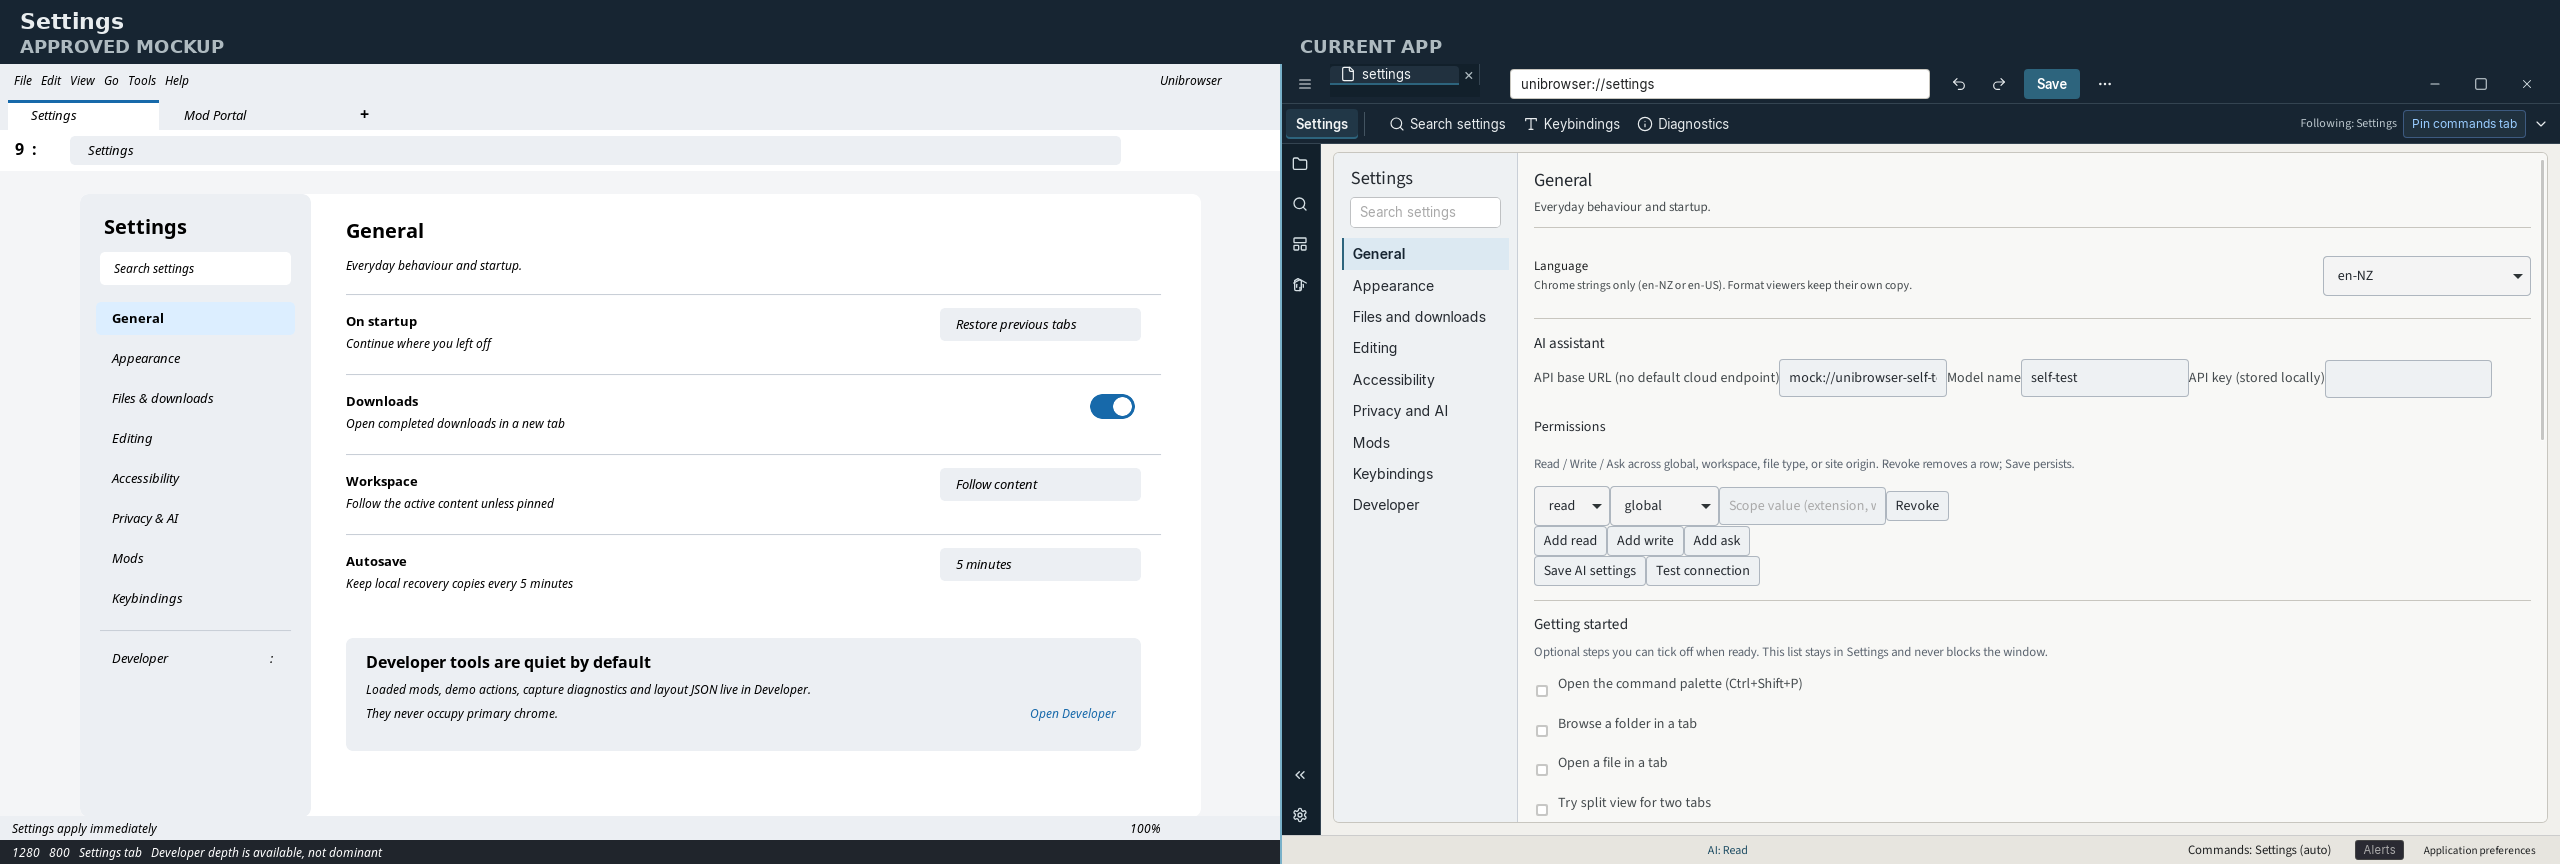
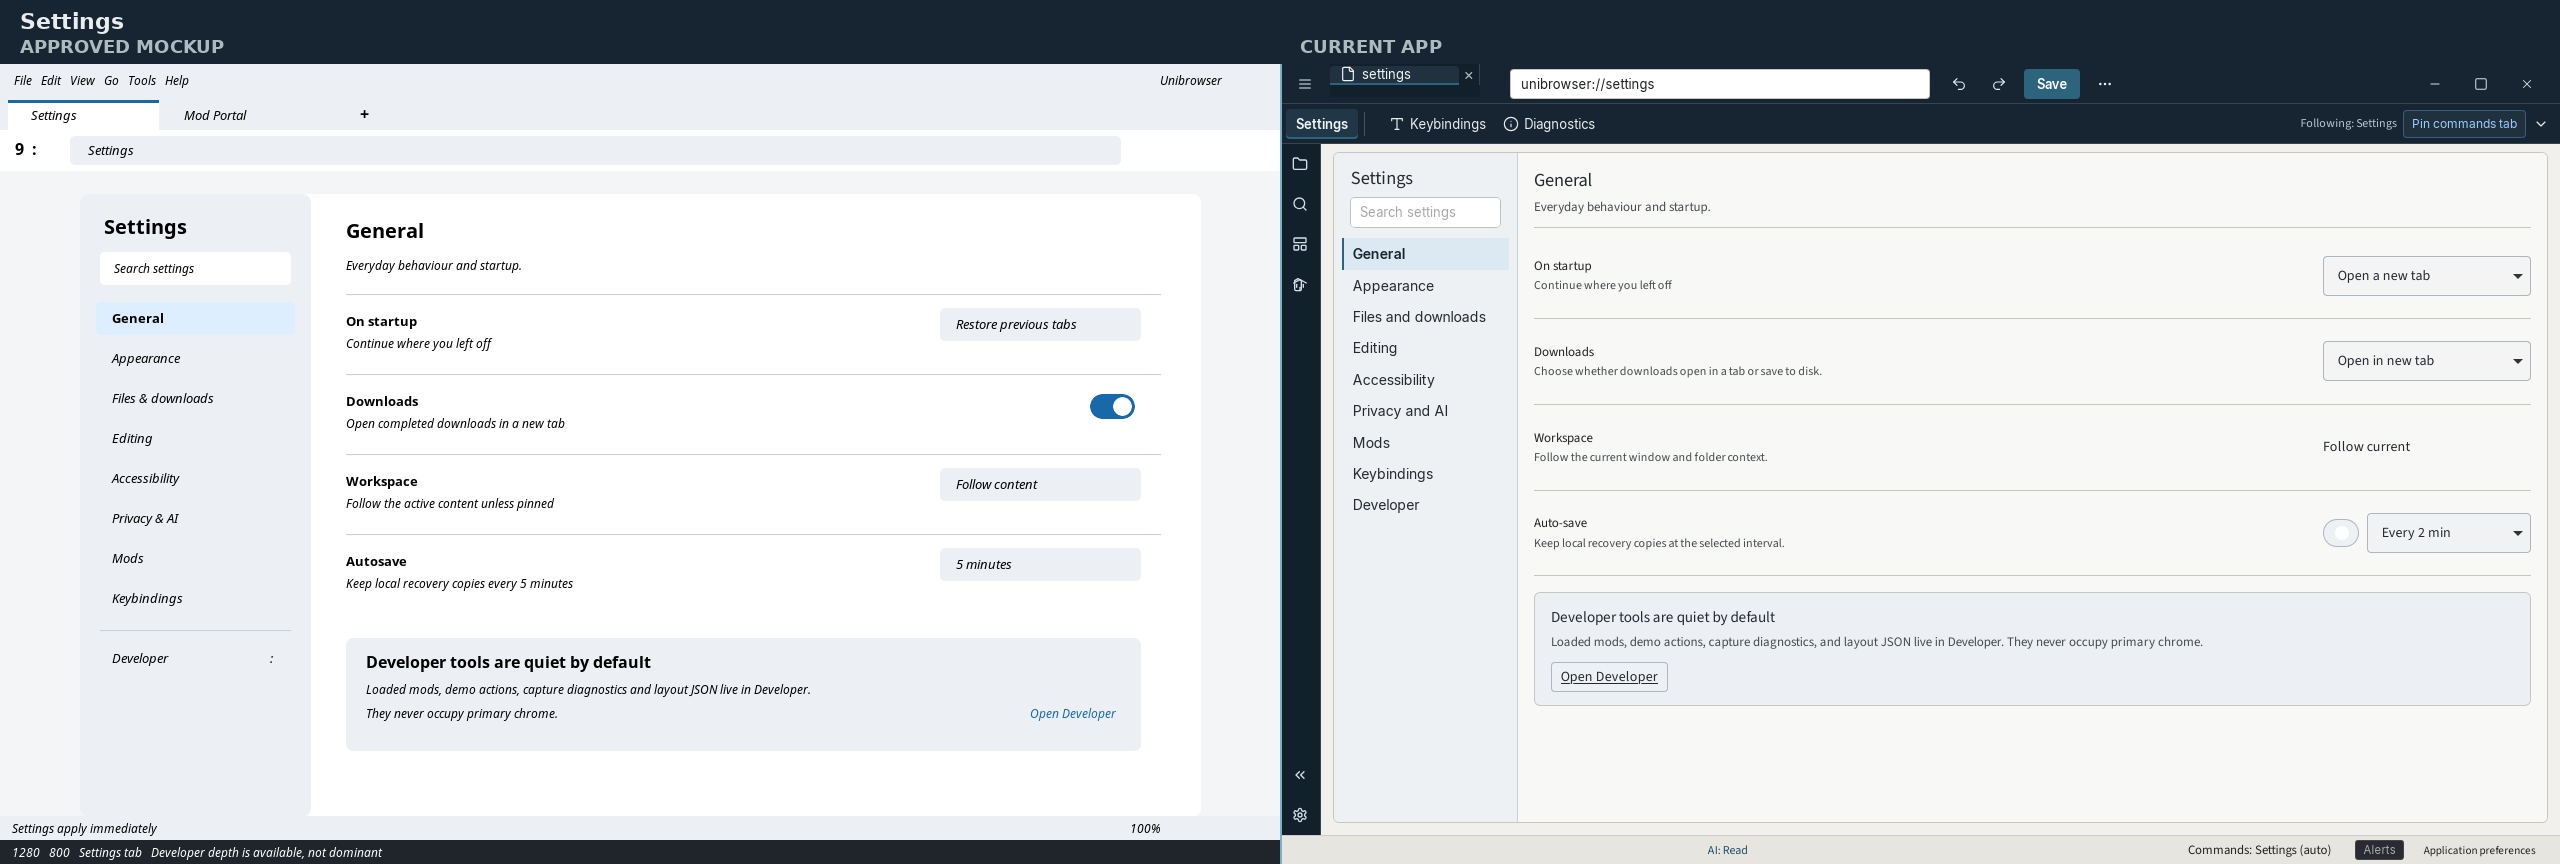
UI-21: Correct Settings category content

diff --git a/crates/unibrowser-desktop/src/settingsPage.ts b/crates/unibrowser-desktop/src/settingsPage.ts
@@ -21,7 +21,7 @@ import {
 import { applyThemeToDocument, loadThemePreference } from "./theme";
 import { listEditorThemeOptions } from "./monacoEditorTheme";
 import { setEditorThemePreference } from "./textEditor";
-import { appendOnboardingChecklistSection, markChecklistStep } from "./onboardingChecklist";
+import { markChecklistStep } from "./onboardingChecklist";
 import { configureAutoSave } from "./autoSave";
 import { configureProjectAutoSave } from "./projectAutoSave";
 import { appendCrashRecoveryPanel } from "./crashRecoveryPanel";
@@ -478,7 +478,7 @@ export async function renderSettings(root: HTMLElement) {
   root.appendChild(networkSection);
 
   const { renderAiAssistantSettings } = await import("./settingsAiAssistant");
-  renderAiAssistantSettings(root);
+  const aiSection = renderAiAssistantSettings(root);
 
   const cmSection = document.createElement("section");
   cmSection.className = "settings-section";
@@ -507,16 +507,10 @@ export async function renderSettings(root: HTMLElement) {
   cmSection.appendChild(cmTip);
   root.appendChild(cmSection);
 
-  appendOnboardingChecklistSection(root, {
-    onboarding_checklist_skip_forever: prefs.onboarding_checklist_skip_forever,
-    onboarding_checklist_completed: prefs.onboarding_checklist_completed,
-  });
   void markChecklistStep("settings_tour");
 
   const dlSection = document.createElement("section");
   dlSection.className = "settings-section";
-  const dlHeading = document.createElement("h3");
-  dlHeading.textContent = t("download.preferenceLabel");
   const dlSelect = document.createElement("select");
   const openOpt = document.createElement("option");
   openOpt.value = "open_in_new_tab";
@@ -530,23 +524,23 @@ export async function renderSettings(root: HTMLElement) {
   dlSelect.onchange = async () => {
     await invoke("set_download_preference", { preference: dlSelect.value });
   };
-  dlSection.appendChild(dlHeading);
-  dlSection.appendChild(dlSelect);
+  dlSection.classList.add("settings-section--fields");
+  dlSection.appendChild(
+    createSettingsFieldRow(
+      t("settings.downloadsRow"),
+      t("settings.downloadsRowLead"),
+      dlSelect,
+    ),
+  );
   root.appendChild(dlSection);
 
   const autoSection = document.createElement("section");
   autoSection.className = "settings-section";
-  const autoHeading = document.createElement("h3");
-  autoHeading.textContent = t("settings.autosave");
-  const autoRow = document.createElement("div");
-  autoRow.className = "settings-row";
   const autoCb = document.createElement("input");
   autoCb.type = "checkbox";
   autoCb.id = "settings-autosave";
+  autoCb.className = "settings-toggle-input";
   autoCb.checked = prefs.auto_save_enabled;
-  const autoLabel = document.createElement("label");
-  autoLabel.htmlFor = autoCb.id;
-  autoLabel.textContent = t("autosave.label");
   const intervalSelect = document.createElement("select");
   [60, 120, 300, 600, 900, 1800].forEach((secs) => {
     const opt = document.createElement("option");
@@ -576,45 +570,36 @@ export async function renderSettings(root: HTMLElement) {
   };
   autoCb.onchange = () => void persistAuto();
   intervalSelect.onchange = () => void persistAuto();
-  autoRow.appendChild(autoCb);
-  autoRow.appendChild(autoLabel);
-  autoRow.appendChild(intervalSelect);
-  const slotLabel = document.createElement("label");
-  slotLabel.textContent = t("autosave.keepSlots");
-  autoRow.appendChild(slotLabel);
-  autoRow.appendChild(slotInput);
   slotInput.onchange = () => void persistAuto();
-  const autoNote = document.createElement("p");
-  autoNote.className = "viewer-note";
-  autoNote.textContent = t("autosave.powerHint");
-  const restoreAutosaveBtn = document.createElement("button");
-  restoreAutosaveBtn.type = "button";
-  restoreAutosaveBtn.textContent = t("autosave.restoreLatest");
-  restoreAutosaveBtn.onclick = async () => {
-    try {
-      await invoke("restore_latest_autosave_for_active_tab");
-      showToast(t("autosave.restoreDone"), "info");
-    } catch (e) {
-      showErrorToast(e);
-    }
-  };
-  autoSection.appendChild(autoHeading);
-  autoSection.appendChild(autoRow);
-  autoSection.appendChild(autoNote);
-  autoSection.appendChild(restoreAutosaveBtn);
+  autoSection.classList.add("settings-section--fields");
+  const autoControls = document.createElement("div");
+  autoControls.className = "settings-inline-controls";
+  autoControls.append(autoCb, intervalSelect);
+  autoSection.appendChild(
+    createSettingsFieldRow(t("settings.autosave"), t("settings.autosaveRowLead"), autoControls),
+  );
   root.appendChild(autoSection);
 
   const sessionSection = document.createElement("section");
   sessionSection.className = "settings-section settings-section--fields";
-  const sessionCb = createSettingsToggle(
-    "settings-restore-session",
-    prefs.restore_session_on_launch,
-    async () => {
-      await invoke("set_restore_session_on_launch", { enabled: sessionCb.checked });
-    },
-  );
+  const sessionSelect = document.createElement("select");
+  [
+    ["restore", t("settings.restorePreviousTabs")],
+    ["new", t("settings.openNewTab")],
+  ].forEach(([value, label]) => {
+    const option = document.createElement("option");
+    option.value = value;
+    option.textContent = label;
+    sessionSelect.appendChild(option);
+  });
+  sessionSelect.value = prefs.restore_session_on_launch ? "restore" : "new";
+  sessionSelect.onchange = async () => {
+    await invoke("set_restore_session_on_launch", {
+      enabled: sessionSelect.value === "restore",
+    });
+  };
   sessionSection.appendChild(
-    createSettingsFieldRow(t("settings.onStartup"), t("settings.onStartupLead"), sessionCb),
+    createSettingsFieldRow(t("settings.onStartup"), t("settings.onStartupLead"), sessionSelect),
   );
   root.appendChild(sessionSection);
 
@@ -757,6 +742,20 @@ export async function renderSettings(root: HTMLElement) {
   workspaceSection.appendChild(workspaceBody);
   void appendWorkspaceLayoutPanel(workspaceBody);
   root.appendChild(workspaceSection);
+
+  const workspaceSummarySection = document.createElement("section");
+  workspaceSummarySection.className = "settings-section settings-section--fields";
+  const workspaceMode = document.createElement("output");
+  workspaceMode.className = "settings-readonly-value";
+  workspaceMode.textContent = t("settings.workspaceFollowCurrent");
+  workspaceSummarySection.appendChild(
+    createSettingsFieldRow(
+      t("settings.workspaceRow"),
+      t("settings.workspaceRowLead"),
+      workspaceMode,
+    ),
+  );
+  root.appendChild(workspaceSummarySection);
 
   const backupSection = document.createElement("section");
   backupSection.className = "settings-section";
@@ -1338,7 +1337,7 @@ export async function renderSettings(root: HTMLElement) {
     {
       id: "general",
       label: "General",
-      sections: [langSection, sessionSection, ntpSection, windowSection, updatesSection],
+      sections: [sessionSection, dlSection, workspaceSummarySection, autoSection],
     },
     {
       id: "appearance",
@@ -1348,17 +1347,17 @@ export async function renderSettings(root: HTMLElement) {
     {
       id: "files",
       label: "Files and downloads",
-      sections: [dlSection, autoSection, recoverySection, workspaceSection, backupSection],
+      sections: [langSection, recoverySection, backupSection, ntpSection, windowSection, updatesSection],
     },
     { id: "editing", label: "Editing", sections: [boardSection, mediaSection] },
     { id: "accessibility", label: "Accessibility", sections: [a11ySection] },
-    { id: "privacy", label: "Privacy and AI", sections: [networkSection] },
+    { id: "privacy", label: "Privacy and AI", sections: [networkSection, aiSection] },
     { id: "mods", label: "Mods", sections: [developerSection] },
     { id: "keybindings", label: "Keybindings", sections: [keysLink] },
     {
       id: "developer",
       label: "Developer",
-      sections: [bookmarkSection, developerSection, resetSection, advancedSection],
+      sections: [bookmarkSection, workspaceSection, developerSection, resetSection, advancedSection],
     },
   ] as const;
 
@@ -1367,8 +1366,11 @@ export async function renderSettings(root: HTMLElement) {
       section.dataset.settingsCategory = id;
     });
   });
+  [sessionSection, dlSection, workspaceSummarySection, autoSection].forEach((section) => {
+    root.appendChild(section);
+  });
   keysLink.dataset.settingsCategory = "keybindings";
-  aboutLink.dataset.settingsCategory = "general";
+  aboutLink.dataset.settingsCategory = "developer";
   diagLink.dataset.settingsCategory = "developer";
 
   [...root.children].forEach((child) => {

diff --git a/crates/unibrowser-desktop/src/settingsAiAssistant.ts b/crates/unibrowser-desktop/src/settingsAiAssistant.ts
@@ -1,6 +1,7 @@
 import { invoke } from "@tauri-apps/api/core";
 import { showErrorToast } from "./toast";
 import { t } from "./i18n";
+import { createSettingsFieldRow } from "./settingsLayout";
 
 interface AiPrefs {
   base_url?: string | null;
@@ -18,52 +19,50 @@ type GrantRow = AiPrefs["grants"][number];
 const PERMISSIONS = ["read", "write", "ask"] as const;
 const SCOPES = ["global", "workspace", "file_type", "site"] as const;
 
-export function renderAiAssistantSettings(root: HTMLElement) {
+export function renderAiAssistantSettings(root: HTMLElement): HTMLElement {
   const section = document.createElement("section");
-  section.className = "settings-section";
+  section.className = "settings-section settings-section--fields";
   section.dataset.settingsSection = "ai-assistant";
   const heading = document.createElement("h3");
   heading.textContent = t("settings.aiAssistantHeading");
   section.appendChild(heading);
 
   void invoke<AiPrefs>("get_ai_assistant_prefs").then((prefs) => {
-    const urlRow = document.createElement("label");
-    urlRow.textContent = t("settings.aiBaseUrl");
     const urlInput = document.createElement("input");
     urlInput.type = "url";
     urlInput.placeholder = "http://127.0.0.1:11434/v1";
     urlInput.value = prefs.base_url ?? "";
-    section.appendChild(urlRow);
-    section.appendChild(urlInput);
+    section.appendChild(
+      createSettingsFieldRow(
+        t("settings.aiBaseUrl"),
+        t("settings.aiBaseUrlLead"),
+        urlInput,
+      ),
+    );
 
-    const modelRow = document.createElement("label");
-    modelRow.textContent = t("settings.aiModel");
     const modelInput = document.createElement("input");
     modelInput.type = "text";
     modelInput.value = prefs.model ?? "";
-    section.appendChild(modelRow);
-    section.appendChild(modelInput);
+    section.appendChild(
+      createSettingsFieldRow(t("settings.aiModel"), t("settings.aiModelLead"), modelInput),
+    );
 
-    const keyRow = document.createElement("label");
-    keyRow.textContent = t("settings.aiApiKey");
     const keyInput = document.createElement("input");
     keyInput.type = "password";
     keyInput.autocomplete = "off";
     keyInput.value = prefs.api_key ?? "";
-    section.appendChild(keyRow);
-    section.appendChild(keyInput);
+    section.appendChild(
+      createSettingsFieldRow(t("settings.aiApiKey"), t("settings.aiApiKeyLead"), keyInput),
+    );
 
-    const grantsHead = document.createElement("h4");
-    grantsHead.textContent = t("settings.aiGrants");
-    section.appendChild(grantsHead);
     const grantsNote = document.createElement("p");
     grantsNote.className = "viewer-note";
     grantsNote.textContent = t("settings.aiGrantsNote");
-    section.appendChild(grantsNote);
-
     const grantsTable = document.createElement("div");
     grantsTable.className = "ai-grants-table";
-    section.appendChild(grantsTable);
+    const grantsControl = document.createElement("div");
+    grantsControl.className = "settings-ai-grants-control";
+    grantsControl.appendChild(grantsTable);
 
     const renderGrants = () => {
       grantsTable.innerHTML = "";
@@ -142,7 +141,10 @@ export function renderAiAssistantSettings(root: HTMLElement) {
       };
       addRow.appendChild(btn);
     }
-    section.appendChild(addRow);
+    grantsControl.appendChild(addRow);
+    section.appendChild(
+      createSettingsFieldRow(t("settings.aiGrants"), grantsNote.textContent, grantsControl),
+    );
 
     const saveBtn = document.createElement("button");
     saveBtn.type = "button";
@@ -157,8 +159,6 @@ export function renderAiAssistantSettings(root: HTMLElement) {
         showErrorToast(e);
       }
     };
-    section.appendChild(saveBtn);
-
     const testBtn = document.createElement("button");
     testBtn.type = "button";
     testBtn.textContent = t("settings.aiTestConnection");
@@ -174,8 +174,14 @@ export function renderAiAssistantSettings(root: HTMLElement) {
         showErrorToast(e);
       }
     };
-    section.appendChild(testBtn);
+    const actions = document.createElement("div");
+    actions.className = "settings-inline-controls";
+    actions.append(saveBtn, testBtn);
+    section.appendChild(
+      createSettingsFieldRow(t("settings.aiConnection"), t("settings.aiConnectionLead"), actions),
+    );
   });
 
   root.appendChild(section);
+  return section;
 }

diff --git a/crates/unibrowser-desktop/src/styles.css b/crates/unibrowser-desktop/src/styles.css
@@ -5021,9 +5021,47 @@ mark.docx-search-hit--current {
   max-width: 13rem;
 }
 
+.settings-inline-controls {
+  display: flex;
+  align-items: center;
+  justify-content: flex-end;
+  gap: 0.5rem;
+}
+
 .settings-field-control select,
 .settings-field-control .settings-toggle-input {
   width: 100%;
+}
+
+.settings-field-control .settings-toggle-input {
+  appearance: none;
+  display: block;
+  width: 2.25rem;
+  height: 1.25rem;
+  margin: 0 0 0 auto;
+  border: 1px solid var(--ub-border-strong, #89939d);
+  border-radius: 999px;
+  background: var(--ub-surface-muted, #dde1e5);
+  cursor: pointer;
+}
+
+.settings-field-control .settings-toggle-input::before {
+  content: "";
+  display: block;
+  width: 0.875rem;
+  height: 0.875rem;
+  margin: 0.125rem;
+  border-radius: 50%;
+  background: var(--ub-surface, #fff);
+}
+
+.settings-field-control .settings-toggle-input:checked {
+  border-color: var(--ub-accent, #196f93);
+  background: var(--ub-accent, #196f93);
+}
+
+.settings-field-control .settings-toggle-input:checked::before {
+  transform: translateX(1rem);
 }
 
 .settings-category-hidden {

diff --git a/crates/unibrowser-desktop/src/docCaptureAsserts.ts b/crates/unibrowser-desktop/src/docCaptureAsserts.ts
@@ -576,7 +576,7 @@ export function validateCommandManagerForCapture(minVisible = 6, minContrast = 6
     cm.autoContext === "start" || cm.contextLabel?.toLowerCase() === "start";
   const settingsContext = cm.contextLabel?.toLowerCase() === "settings";
   const modsContext = cm.contextLabel?.toLowerCase() === "mods";
-  const sparseContextLimit = settingsContext ? 3 : modsContext ? 5 : 4;
+  const sparseContextLimit = settingsContext ? 2 : modsContext ? 5 : 4;
   const sparseContext = startContext || settingsContext || modsContext;
   const requiredVisible = sparseContext ? Math.min(minVisible, sparseContextLimit) : minVisible;
   const requiredContrast = sparseContext ? Math.min(minContrast, sparseContextLimit) : minContrast;

diff --git a/crates/unibrowser-engine/src/command_system/families.rs b/crates/unibrowser-engine/src/command_system/families.rs
@@ -351,17 +351,6 @@ fn settings_family(ctx: &ResolutionContext, resolver: &CapabilityResolver) -> Re
     let group_id = "unibrowser.group.settings";
     let controls = vec![
         control_spec(
-            control_ids::SETTINGS_SEARCH,
-            ControlType::Button,
-            commands::SETTINGS_SEARCH,
-            "Search settings",
-            "search",
-            group_id,
-            family_ids::SETTINGS,
-            ctx,
-            resolver,
-        ),
-        control_spec(
             control_ids::SETTINGS_KEYBINDINGS,
             ControlType::Button,
             commands::SETTINGS_KEYBINDINGS,
